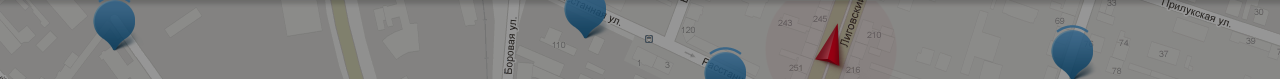
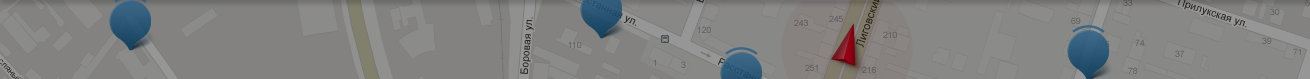
фулскрин и точка текущих замеров

diff --git a/media/js/map.js b/media/js/map.js
@@ -19,6 +19,79 @@ $(function(){
                 }
             );
             map.controls.add("zoomControl");
+            // Создаем коллекцию, в которую будем добавлять метки
+            var pointsSet = []
+
+            // точка текщих замеров
+            if ($('#currMeasurePointId').val()!=''){
+                coordCurr = $('#currMeasurePointCoord').val().split(',');
+                var CurrMeasurementPlacemark = new ymaps.Placemark(coordCurr,
+                    {
+                        balloonContent: '',
+                        point_id: $('#currMeasurePointId').val()
+                    },
+                    {
+                        openBalloonOnClick: false,
+                        iconImageHref: '/media/img/car_point.png',
+                        iconImageSize: [82, 82],
+                        iconImageOffset: [-36, -43],
+                        hideIconOnBalloonOpen: false,
+                        balloonLayout: "default#imageWithContent",
+                        balloonContentSize: [360, 0],
+                        balloonImageOffset: [-188, -320],
+                        balloonShadow: false
+                    }
+                );
+                CurrMeasurementPlacemark.events.add('click', function () {
+                    var curr_city =  $('div.map_city_select div.select_curr').html().replace("<div></div>","")
+                    var curr_op = $('div.map_op_select div.select_curr').html().replace("<div></div>","")
+                    var curr_mtype =$('div.map_modem_select div.select_curr').html().replace("<div></div>","")
+
+                    if(CurrMeasurementPlacemark.balloon.isOpen()) {
+                        CurrMeasurementPlacemark.balloon.close();
+                    }
+                    else {
+                        CurrMeasurementPlacemark.balloon.open();
+                    }
+                    var id_point = CurrMeasurementPlacemark.properties.get('point_id')
+                    $.get('/load_balloon_content/', {id_point: id_point, op_title: curr_op }, function(data){
+                        var pk = CurrMeasurementPlacemark.geometry.getCoordinates();
+                        var bounds = map.getBounds();
+                        var delta = (bounds[1][0] - bounds[0][0]) / 4; //0.0050000000;
+                        pk[0] = parseFloat(pk[0]) + delta;
+                        pk[1] = parseFloat(pk[1]);
+                        map.panTo(pk, {
+                            callback: function () {
+                                CurrMeasurementPlacemark.properties.set('balloonContent', data);
+                                if ($('.map_popup').html()) {
+                                    var vals = $('#map_slider').slider( "option", "values" );
+                                    var minMBs = (vals[0]/250)-0.4;
+                                    var maxMBs = (vals[1]/250)-0.4;
+                                    var map_popup_info_val_set = $('td.map_popup_info_val');
+                                    for (var i = 0; i <= map_popup_info_val_set.length; i++) {
+                                        var value = parseFloat(map_popup_info_val_set.eq(i).html());
+                                        if ((value) || (value==0)) {
+                                            if ((value<minMBs) || (value>maxMBs)) {
+                                                map_popup_info_val_set.eq(i).css('color','#999');
+                                            }
+                                        }
+                                    }
+                                    var counter_val_set = $('div.counter_val');
+                                    for (var i = 0; i <= counter_val_set.length; i++) {
+                                        var value = parseFloat(counter_val_set.eq(i).html());
+                                        if ((value) || (value==0)) {
+                                            if ((value<minMBs) || (value>maxMBs)) {
+                                                counter_val_set.eq(i).css('color','#666');
+                                            }
+                                        }
+                                    }
+                                }
+                            },
+                            flying: 1
+                        });
+                    });
+                });
+            }
 
             $("#map_slider").slider({
                     range: true,
@@ -53,8 +126,6 @@ $(function(){
                     }
                 });
 
-            // Создаем коллекцию, в которую будем добавлять метки
-            var pointsSet = []
             function getJSONPoints(id_city){
                 var url = '/get_points_json/';
                 if (id_city){
@@ -146,19 +217,6 @@ $(function(){
                                 hideIconOnBalloonOpen: false,
                                 openBalloonOnClick: false,
                                 // Изображение иконки метки
-                                /*
-                                {% if op_curr %}
-                                    // если выбран какой-либо оператор - то ставим иконку для него
-                                    iconImageHref: '',
-                                    {% for operator in point.get_operators_without_params %}
-                                        {% if operator.id == op_curr.id %}
-                                            iconImageHref: '{% call "point.get_abilitiy_icon_additional" with op_curr.title %}',
-                                        {% endif %}
-                                    {% endfor %}
-                                {% else %}
-                                    iconImageHref: '{{ point.get_abilitiy_icon }}',
-                                {% endif %}
-                                */
                                 iconImageHref: ability_icon_url,
                                 iconImageSize: [37, 40],
                                 balloonLayout: "default#imageWithContent",
@@ -215,25 +273,13 @@ $(function(){
                                     flying: 1
                                 });
                             });
-
-                            /*$.ajax({
-                                    url: "/load_balloon_content/",
-                                    data: {
-                                        id_point:id_point,
-                                        op_title:curr_op,
-                                        mdm_type:curr_mtype
-                                    },
-                                    type: "POST",
-                                    success: function(data) {
-                                        placemark.properties.set('balloonContent', data);
-                                        var point_coord = placemark.geometry.getCoordinates();
-                                        //map.setCenter(point_coord);
-                                    }
-                                });*/
                         });
                         pointsSet.push(placemark);
                     });
 
+                    if ($('#currMeasurePointId').val()!=''){
+                        map.geoObjects.add(CurrMeasurementPlacemark);
+                    }
                     clusterer = new ymaps.Clusterer();
                     clusterer.add(pointsSet);
                     map.geoObjects.add(clusterer);
@@ -293,7 +339,6 @@ $(function(){
                 $('div.tab').addClass('tab_hidden');
                 cur_tab.removeClass('tab_hidden');
             });
-
 
             $(".select_drop li a").live('click', function(){
                 var el = $(this);
@@ -594,5 +639,10 @@ $(function(){
                     clusterer.add(NewPointsSet);
                     map.geoObjects.add(clusterer); // добавляем новый кластеризированный сет
                 }
+
+            $( ".map_fullscreen" ).click(function() {
+                $('body').toggleClass("fullscreen");
+                map.container.fitToViewport();
+            });
         });
     });

diff --git a/media/css/style.css b/media/css/style.css
@@ -45,6 +45,10 @@ textarea {resize: none;}
 
 
 /*-----------------MAIN-STYLES-----------------*/
+html, body {
+	min-height: 100%;
+	height: 100%;
+}
 body {
 	background: #fff;
 	color: #000;
@@ -288,6 +292,17 @@ input, textarea {
 	top: -16px;
     /*<!-- !!! -->*/
 	right: -16px;
+}
+
+.map_popup_qty {
+	font: bold 15px/24px 'Trebuchet MS', Arial, Helvetica, sans-serif;
+	color: #8a7a11;
+	background: url('../img/zamer_qty.png') no-repeat 0 0;
+	position: absolute;
+	top: -33px;
+	left: -3px;
+	height: 24px;
+	padding: 6px 6px 0 6px;
 }
 
 .tab_hidden {
@@ -1131,9 +1146,11 @@ background-position: 50% -50px;
 }
 .timeline_l {
 	float: left;
+	clear: left;
 }
 .timeline_r {
 	float: right;
+	clear: right;
 }
 
 .timeline_point {
@@ -1146,9 +1163,11 @@ background-position: 50% -50px;
 }
 .timeline_l .timeline_point {
 	right: -48px;
+	top: 80px;
 }
 .timeline_r .timeline_point {
-	left: -48px;
+	left: -47px;
+	top: 40px;
 }
 
 .timeline_arr {
@@ -1162,12 +1181,14 @@ background-position: 50% -50px;
 	width: 12px;
 	height: 21px;
 	right: -12px;
+	top: 80px;
 }
 .timeline_r .timeline_arr {
 	background-position: 0 -31px;
 	width: 10px;
 	height: 19px;
 	left: -10px;
+	top: 40px;
 }
 .timeline_media_l .timeline_arr {
 	background-position: 0 -60px;
@@ -1260,6 +1281,37 @@ background-position: 50% -50px;
 	margin: 0 0 12px 0;
 }
 /*/timeline*/
+
+
+
+
+
+/*fullscreen*/
+.fullscreen .header,
+.fullscreen .footer,
+.fullscreen .main_in {
+	display: none;
+}
+.fullscreen .wrapper,
+.fullscreen .page,
+.fullscreen .main,
+.fullscreen .index_map_out,
+.fullscreen .index_map,
+.fullscreen .map {
+	min-height: 100%;
+	height: 100%;
+	width: 100%;
+}
+.fullscreen .wrapper {
+	max-width: 100%;
+	box-shadow: none;
+}
+.fullscreen .index_map_out {
+	padding-bottom: 0;
+	margin: 0;
+}
+/*/fullscreen*/
+
 /*-----------------PAGE-END-----------------*/
 
 

diff --git a/templates/workpoint/about.html b/templates/workpoint/about.html
@@ -32,7 +32,17 @@
             <div class="cl"></div>
             <div class="load_block">
                 {% for new in news %}
-                    <div class="timeline_new {% cycle 'timeline_r' 'timeline_l' %}{% if new.get_images or new.code_video %} timeline_media {% cycle 'timeline_media_r' 'timeline_media_l' %}{% endif %}">
+                    <div class="timeline_new
+                            {% if new.get_images or new.code_video %} timeline_media
+                                {% if forloop.counter|divisibleby:2 %}
+                                    {% cycle 'timeline_l timeline_media_l' 'timeline_r timeline_media_r' %}
+                                {% else %}
+                                    {% cycle 'timeline_r timeline_media_r' 'timeline_l timeline_media_l' %}
+                                {% endif %}
+                            {% else %}
+                                {% cycle 'timeline_r' 'timeline_l' %}
+                            {% endif %}">
+
                         <h3>{{ new.title }}</h3>
                         <div class="timeline_date">{{ new.date_add|date:"j E Y" }}г</div>
                         {% if not new.get_images %}

diff --git a/templates/index.html b/templates/index.html
@@ -59,7 +59,7 @@
                         </div>
                     </div>
                 {% endif %}
-                <!--<div class="map_fullscreen" title="Во весь экран"></div>-->
+                <div class="map_fullscreen" title="Во весь экран"></div>
             </div><!--/map_ctrls-->
             <div class="map_preload"><div class="preloader"></div></div>
             <div class="map_filter">
@@ -163,6 +163,7 @@
 <input id="mapCenter" type="hidden" value="{{ city_curr.coord }}" />
 <input id="cityID" type="hidden" value="{{ city_curr.id }}" />
 <input id="opTITLE" type="hidden" value="{{ op_curr.title }}" />
-
+<input id="currMeasurePointId" type="hidden" value="{{ processing.id }}" />
+<input id="currMeasurePointCoord" type="hidden" value="{{ processing.coord }}" />
 {% endblock %}
 

diff --git a/templates/items_loader/new2_load_template.html b/templates/items_loader/new2_load_template.html
@@ -35,7 +35,7 @@
                 {% endfor %}
             </div>
             {% if item.get_count_images > 3 %}
-                <div class="timeline_media_more"><a href="/news/{{ item.id }}/">Еще {{ item.get_count_images|add:"-3" }} фотографий</a></div>
+                <div class="timeline_media_more"><a href="/news/{{ item.id }}/">Еще {{ item.get_count_images|add:"-3" }} фотографи{{ item.get_count_images|add:"-3"|choose_plural:"я,и,й" }}</a></div>
             {% else %}
                 <div class="timeline_media_more"><a href="/news/{{ item.id }}/">Читать новость</a></div>
             {% endif %}

diff --git a/templates/workpoint/point_popup.html b/templates/workpoint/point_popup.html
@@ -1,4 +1,4 @@
-{% load thumbnail %}
+{% load thumbnail pytils_numeral %}
 <div class="map_popup">
 <div style="display: none;">{{ point.id }}</div>
     <div class="tab op_all{% if curr_operator_id %} tab_hidden{% endif %}">
@@ -90,7 +90,7 @@
             </div>
         </div>
     {% endfor %}
-
+    <div class="map_popup_qty">{{ speed_values_cnt }} замер{{ speed_values_cnt|choose_plural:",а,ов" }}</div>
 
     <div class="map_popup_close"></div>
     <div class="map_popup_b"></div>

diff --git a/media/js/script.js b/media/js/script.js
@@ -54,4 +54,3 @@ $(function() {
 		$(this).parent().toggleClass("select_dropped");
 	});
 });
-

diff --git a/apps/workpoint/models.py b/apps/workpoint/models.py
@@ -428,6 +428,10 @@ class Point(models.Model):
         return operators_set
 
     def get_popup_window(self, curr_operator_title=False):
+        if not self.speed_values:
+            speed_values = self.speedatpoint_all
+        else:
+            speed_values = self.speed_values
         operators = self.get_operators()
         try:
             curr_op = Operator.objects.get(title__contains=curr_operator_title)
@@ -439,6 +443,7 @@ class Point(models.Model):
                 {
                 'point': self,
                 'operators': operators,
+                'speed_values_cnt': len(speed_values),
                 'curr_operator_id': curr_op,
                 'abilities': self.get_abilities()
             })

diff --git a/apps/workpoint/context_processors.py b/apps/workpoint/context_processors.py
@@ -13,9 +13,9 @@ def is_processing(request):
     if period:
         td = datetime.timedelta(minutes=period)
         last_dtime = datetime.datetime.now() - td
-        point_set = Point.objects.filter(datetime_create__gte=last_dtime)
+        point_set = Point.objects.filter(datetime_create__gte=last_dtime).order_by('-datetime_create')
         if point_set:
-            processing = True
+            processing = point_set[0]
         else:
             processing = False
     else:
